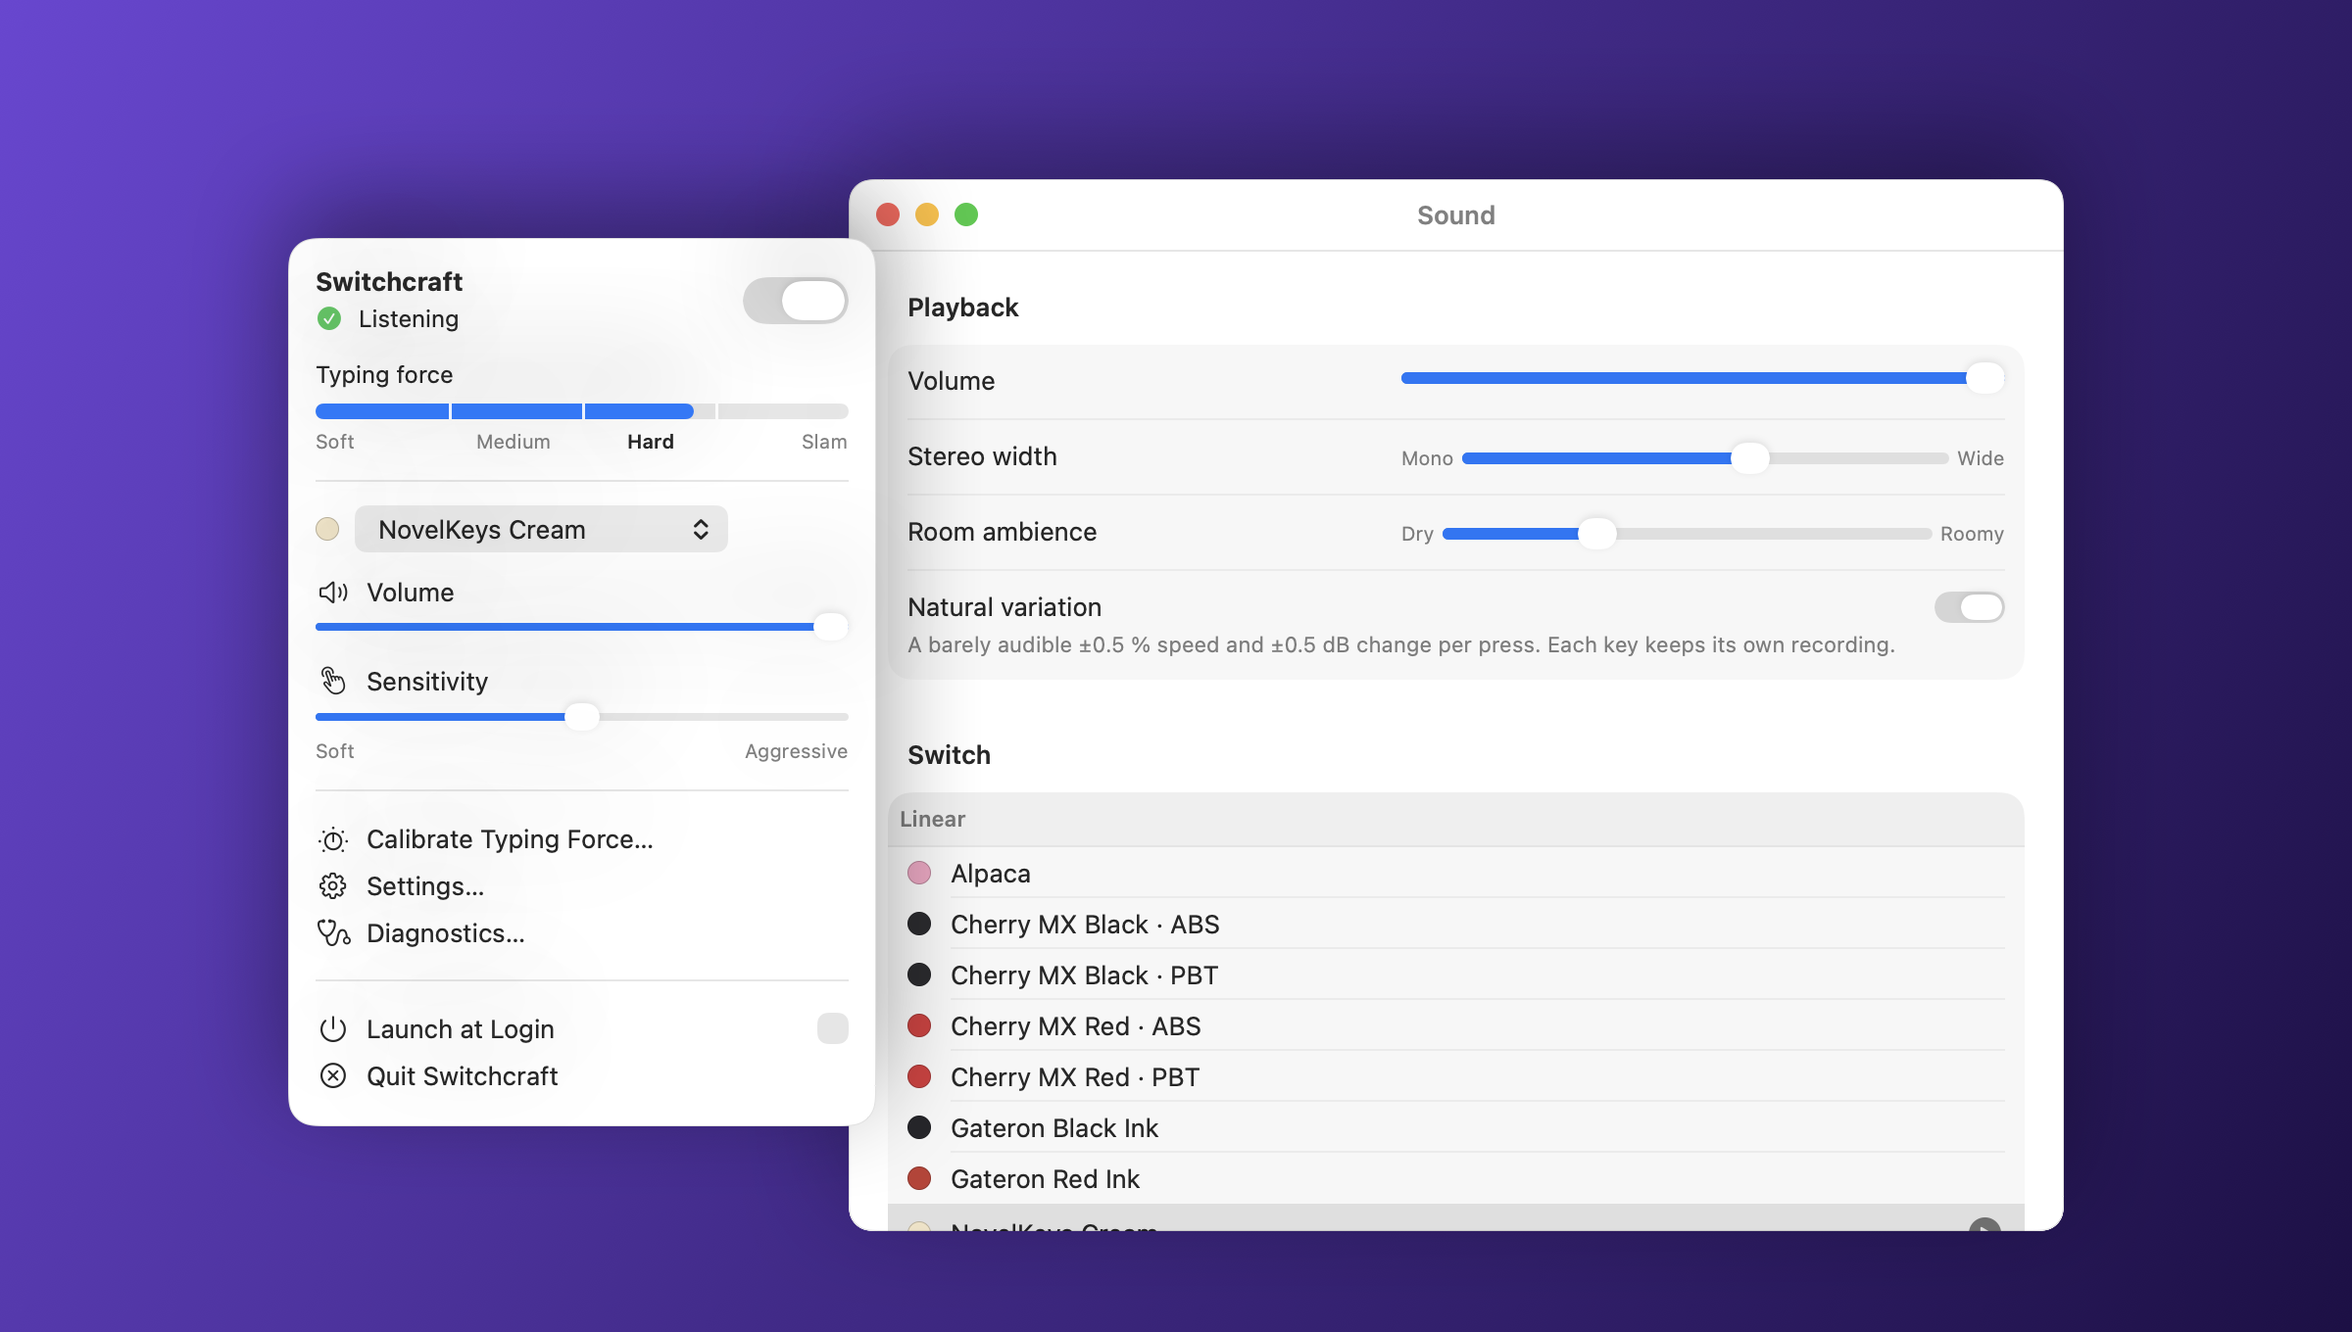
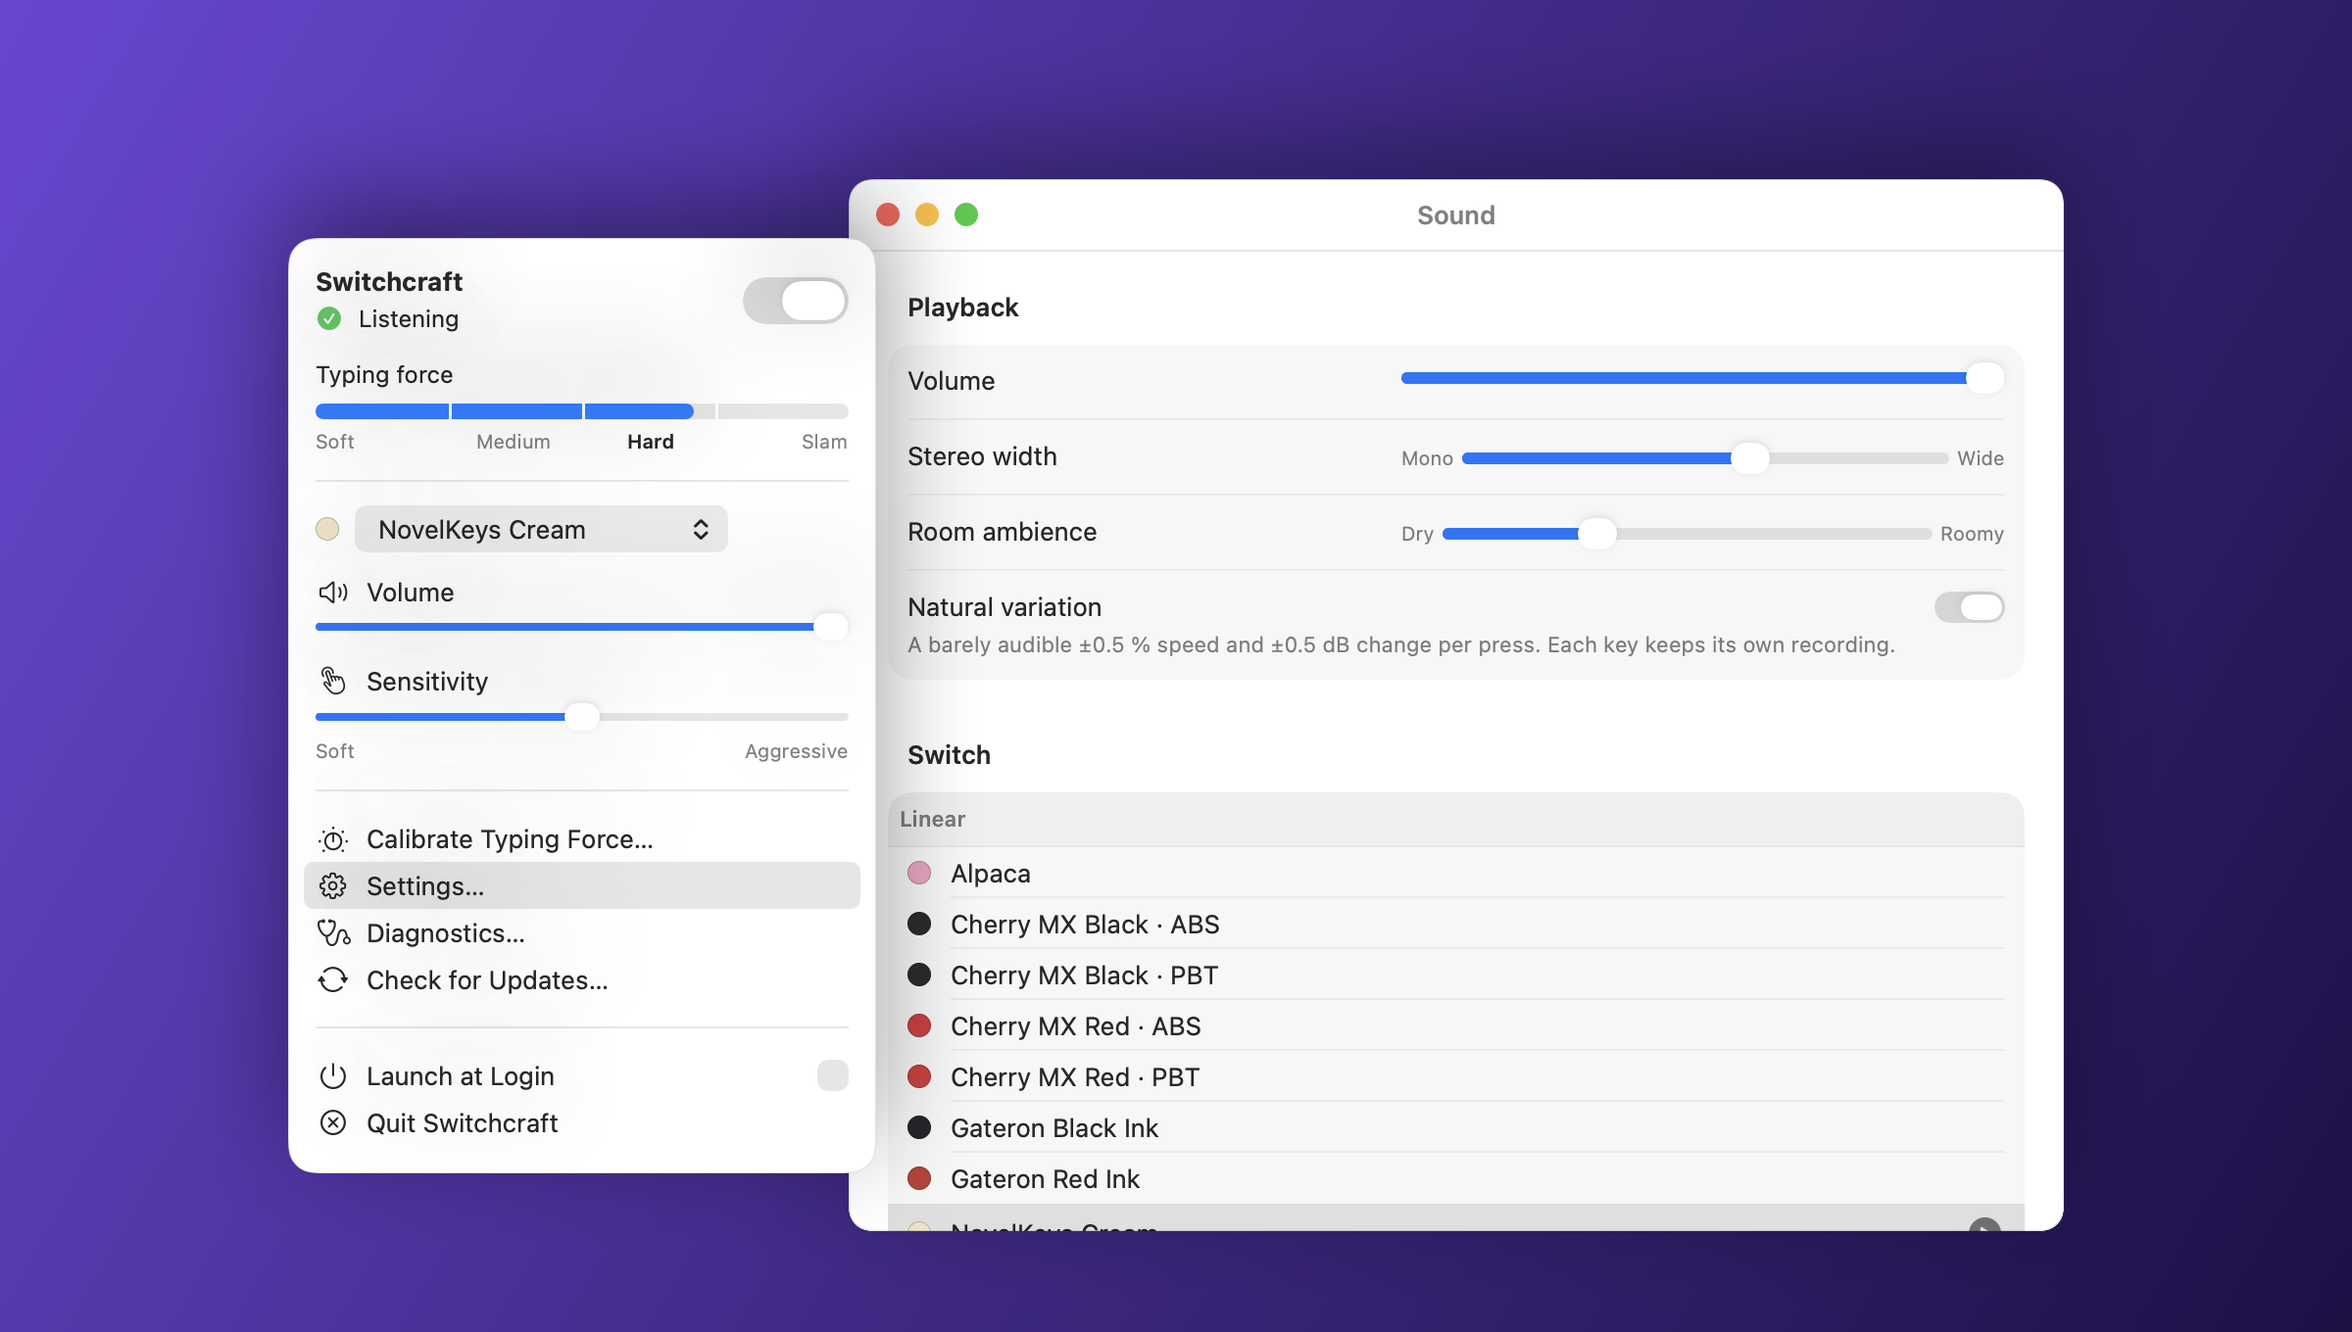
Check GitHub for a newer release at launch and daily
Switchcraft asks GitHub's releases/latest API at launch and once a day
(retrying within the hour if offline) and prompts with Download / Later
when the release is newer than the running build. The prompt waits for a
5 s pause in typing so it can't swallow keystrokes. The menu panel gets
Check for Updates… (Update to X.Y.Z… once one is known).

Version parsing and the GitHub response live in SwitchcraftCore with
tests. README, About, onboarding and Info.plist no longer claim "no
network access": the update check is the only request.

Changed region(s): [[0.125, 0.7412, 0.375, 0.8956], [0.125, 0.6485, 0.375, 0.6794], [0.1562, 0.7103, 0.25, 0.7412]]

diff --git a/Switchcraft/Application/UpdateChecker.swift b/Switchcraft/Application/UpdateChecker.swift
@@ -1,0 +1,79 @@
+import AppKit
+import Observation
+import SwitchcraftCore
+
+/// Asks GitHub for the latest release at launch and once a day, and prompts when it's newer than
+/// this build. Switchcraft's only network request: nothing about the Mac or the typing is sent.
+@MainActor @Observable
+final class UpdateChecker {
+    static let latestReleaseAPI = URL(string: "https://api.github.com/repos/mustafa4101996ahmed/switchcraft/releases/latest")!
+
+    /// A release newer than this build, once a check has found one.
+    private(set) var available: LatestRelease?
+    private let current = AppVersion(Bundle.main.infoDictionary?["CFBundleShortVersionString"] as? String ?? "") ?? AppVersion("0")!
+    @ObservationIgnored private var isChecking = false
+
+    func start() {
+        Task {
+            while !Task.isCancelled {
+                let reachedGitHub = await check(userInitiated: false)
+                // Task.sleep counts time asleep too, so a Mac that sleeps overnight still checks daily.
+                try? await Task.sleep(for: .seconds(reachedGitHub ? 24 * 3600 : 3600))
+            }
+        }
+    }
+
+    /// Returns false when GitHub couldn't be reached, so the daily schedule retries within the hour.
+    @discardableResult
+    func check(userInitiated: Bool) async -> Bool {
+        guard !isChecking else { return true }
+        isChecking = true
+        defer { isChecking = false }
+        let release: LatestRelease
+        do {
+            var request = URLRequest(url: Self.latestReleaseAPI, timeoutInterval: 30)
+            request.setValue("application/vnd.github+json", forHTTPHeaderField: "Accept")
+            let (data, response) = try await URLSession.shared.data(for: request)
+            guard (response as? HTTPURLResponse)?.statusCode == 200 else { throw URLError(.badServerResponse) }
+            release = try LatestRelease(gitHubJSON: data)
+        } catch {
+            Log.app.error("Update check failed: \(error.localizedDescription, privacy: .public)")
+            if userInitiated {
+                show("Couldn't check for updates", "GitHub didn't answer. Check your internet connection and try again.")
+            }
+            return false
+        }
+        Log.app.info("Latest release \(release.version, privacy: .public), this build \(self.current, privacy: .public)")
+        available = release.version > current ? release : nil
+        if let available {
+            await prompt(available, waitForTypingPause: !userInitiated)
+        } else if userInitiated {
+            show("Switchcraft is up to date", "Version \(current) is the latest release.")
+        }
+        return true
+    }
+
+    private func prompt(_ release: LatestRelease, waitForTypingPause: Bool) async {
+        // A dialog that takes focus mid-sentence would swallow keystrokes, so wait for a quiet moment.
+        while waitForTypingPause && CGEventSource.secondsSinceLastEventType(.combinedSessionState, eventType: .keyDown) < 5 {
+            try? await Task.sleep(for: .seconds(5))
+        }
+        let alert = NSAlert()
+        alert.messageText = "Switchcraft \(release.version) is available"
+        alert.informativeText = "You have version \(current). Download the new version, quit Switchcraft, then drag the new one into Applications. Your settings stay as they are."
+        alert.addButton(withTitle: "Download")
+        alert.addButton(withTitle: "Later")
+        NSApp.activate()
+        if alert.runModal() == .alertFirstButtonReturn {
+            NSWorkspace.shared.open(release.downloadURL)
+        }
+    }
+
+    private func show(_ title: String, _ message: String) {
+        let alert = NSAlert()
+        alert.messageText = title
+        alert.informativeText = message
+        NSApp.activate()
+        alert.runModal()
+    }
+}

diff --git a/SwitchcraftCore/Utilities/AppVersion.swift b/SwitchcraftCore/Utilities/AppVersion.swift
@@ -1,0 +1,53 @@
+import Foundation
+
+/// A release version such as "1.2.0", or a tag such as "v1.2.0". Missing trailing parts count as zero.
+public struct AppVersion: Comparable, Sendable, CustomStringConvertible {
+    public let description: String
+    private let parts: [Int]
+
+    public init?(_ text: String) {
+        let pieces = text.drop(while: { $0 == "v" }).split(separator: ".", omittingEmptySubsequences: false)
+        let parts = pieces.compactMap { Int($0) }
+        guard !parts.isEmpty, parts.count == pieces.count else { return nil }
+        self.parts = parts
+        description = parts.map(String.init).joined(separator: ".")
+    }
+
+    public static func < (a: AppVersion, b: AppVersion) -> Bool {
+        for index in 0..<max(a.parts.count, b.parts.count) where a.part(index) != b.part(index) {
+            return a.part(index) < b.part(index)
+        }
+        return false
+    }
+
+    public static func == (a: AppVersion, b: AppVersion) -> Bool { !(a < b) && !(b < a) }
+
+    private func part(_ index: Int) -> Int { index < parts.count ? parts[index] : 0 }
+}
+
+/// What Switchcraft reads from GitHub's "latest release" API response.
+public struct LatestRelease: Sendable, Equatable {
+    public let version: AppVersion
+    /// The DMG when the release has one, otherwise the release page.
+    public let downloadURL: URL
+
+    public init(gitHubJSON data: Data) throws {
+        struct Response: Decodable {
+            struct Asset: Decodable {
+                let name: String
+                let browserDownloadUrl: URL
+            }
+            let tagName: String
+            let htmlUrl: URL
+            let assets: [Asset]
+        }
+        let decoder = JSONDecoder()
+        decoder.keyDecodingStrategy = .convertFromSnakeCase
+        let response = try decoder.decode(Response.self, from: data)
+        guard let version = AppVersion(response.tagName) else {
+            throw DecodingError.dataCorrupted(.init(codingPath: [], debugDescription: "Unrecognised release tag \(response.tagName)"))
+        }
+        self.version = version
+        downloadURL = response.assets.first { $0.name.hasSuffix(".dmg") }?.browserDownloadUrl ?? response.htmlUrl
+    }
+}

diff --git a/SwitchcraftTests/UpdateTests.swift b/SwitchcraftTests/UpdateTests.swift
@@ -1,0 +1,46 @@
+import Foundation
+import Testing
+@testable import SwitchcraftCore
+
+struct UpdateTests {
+    @Test(arguments: [
+        ("1.0.1", "1.0.0"), ("1.1.0", "1.0.9"), ("2.0.0", "1.9.9"), ("1.10.0", "1.9.0"),
+        ("v1.0.1", "1.0.0"), ("1.0.0.1", "1.0"),
+    ])
+    func newerVersionsCompareGreater(newer: String, older: String) throws {
+        let a = try #require(AppVersion(newer)), b = try #require(AppVersion(older))
+        #expect(a > b)
+        #expect(!(b > a))
+    }
+
+    @Test func trailingZerosAreTheSameVersion() {
+        #expect(AppVersion("v1.0") == AppVersion("1.0.0"))
+    }
+
+    @Test(arguments: ["", "v", "1..0", "1.0-beta", "latest"])
+    func rejectsTextThatIsNotAVersion(text: String) {
+        #expect(AppVersion(text) == nil)
+    }
+
+    @Test func readsTheDMGFromGitHubsLatestRelease() throws {
+        let json = """
+        {"tag_name": "v1.2.0", "html_url": "https://github.com/o/r/releases/tag/v1.2.0", "draft": false,
+         "assets": [{"name": "notes.txt", "browser_download_url": "https://example.com/notes.txt"},
+                    {"name": "Switchcraft.dmg", "browser_download_url": "https://example.com/Switchcraft.dmg"}]}
+        """
+        let release = try LatestRelease(gitHubJSON: Data(json.utf8))
+        #expect(release.version == AppVersion("1.2.0"))
+        #expect(release.downloadURL.absoluteString == "https://example.com/Switchcraft.dmg")
+    }
+
+    @Test func fallsBackToTheReleasePageWithoutADMG() throws {
+        let json = #"{"tag_name": "v1.2.0", "html_url": "https://github.com/o/r/releases/tag/v1.2.0", "assets": []}"#
+        let release = try LatestRelease(gitHubJSON: Data(json.utf8))
+        #expect(release.downloadURL.absoluteString == "https://github.com/o/r/releases/tag/v1.2.0")
+    }
+
+    @Test func rejectsATagThatIsNotAVersion() {
+        let json = #"{"tag_name": "nightly", "html_url": "https://github.com/o/r", "assets": []}"#
+        #expect(throws: DecodingError.self) { try LatestRelease(gitHubJSON: Data(json.utf8)) }
+    }
+}

diff --git a/Switchcraft/Preferences/SettingsView.swift b/Switchcraft/Preferences/SettingsView.swift
@@ -168,7 +168,7 @@ struct AboutView: View {
                     Text("\(model.hardware.cpuBrand) · \(model.hardware.modelIdentifier)").foregroundStyle(.secondary)
                 }
             }
-            Text("Velocity-sensitive mechanical keyboard sounds, driven by your MacBook's built-in accelerometer. Everything stays on this Mac: no network access, no analytics, and the text you type is never recorded.")
+            Text("Velocity-sensitive mechanical keyboard sounds, driven by your MacBook's built-in accelerometer. Everything stays on this Mac: no analytics, and the text you type is never recorded. Switchcraft only goes online to check GitHub for a newer version, once a day.")
                 .fixedSize(horizontal: false, vertical: true)
             GroupBox {
                 VStack(alignment: .leading, spacing: 8) {

diff --git a/Switchcraft/Onboarding/OnboardingView.swift b/Switchcraft/Onboarding/OnboardingView.swift
@@ -115,7 +115,7 @@ struct OnboardingView: View {
                     .fixedSize(horizontal: false, vertical: true)
                 Text("Switchcraft feels how hard each key lands through the MacBook's built-in motion sensor, so soft presses sound soft and hard presses sound hard.")
                     .fixedSize(horizontal: false, vertical: true)
-                Label("Everything stays on this Mac. No network access, and the text you type is never recorded.", systemImage: "lock")
+                Label("Everything stays on this Mac, and the text you type is never recorded.", systemImage: "lock")
                     .foregroundStyle(.secondary)
                     .fixedSize(horizontal: false, vertical: true)
             }

diff --git a/Switchcraft/MenuBar/MenuBarView.swift b/Switchcraft/MenuBar/MenuBarView.swift
@@ -59,6 +59,11 @@ struct MenuBarView: View {
                 row("Settings…", systemImage: "gearshape") { open(.settings) }
                     .keyboardShortcut(",", modifiers: .command)
                 row("Diagnostics…", systemImage: "stethoscope") { open(.diagnostics) }
+                row(model.updates.available.map { "Update to \($0.version)…" } ?? "Check for Updates…",
+                    systemImage: model.updates.available == nil ? "arrow.triangle.2.circlepath" : "arrow.down.circle") {
+                    NSApp.keyWindow?.close()
+                    Task { await model.updates.check(userInitiated: true) }
+                }
             }
             .padding(.horizontal, -6)
 

diff --git a/Switchcraft/Application/AppModel.swift b/Switchcraft/Application/AppModel.swift
@@ -11,6 +11,7 @@ final class AppModel {
     let permissions = PermissionsService()
     let library = SoundPackLibrary()
     let hardware = HardwareInfo.detect()
+    let updates = UpdateChecker()
     @ObservationIgnored let audio = SoundEngine()
     @ObservationIgnored let sensor = HIDAccelerometer()
     @ObservationIgnored let keyboard = KeyboardMonitor()
@@ -69,6 +70,7 @@ final class AppModel {
         settingsChanged()
         startOrStopKeyboard()
         refreshLaunchAtLogin()
+        updates.start()
         if !settings.hasCompletedOnboarding { windows.show(.onboarding, model: self) }
     }
 

diff --git a/README.md b/README.md
@@ -13,7 +13,7 @@ a recording of a real switch to match. Soft presses sound soft. Hard presses sou
 [![MIT](https://img.shields.io/badge/licence-MIT-007ec6)](LICENSE)
 ![macOS 14+](https://img.shields.io/badge/macOS-14%2B-1f1f1f)
 ![Apple Silicon MacBooks](https://img.shields.io/badge/Apple%20Silicon-MacBook-0a7ea4)
-![Network access: none](https://img.shields.io/badge/network-none-6b7785)
+![Network: update check only](https://img.shields.io/badge/network-update%20check%20only-6b7785)
 
 </div>
 
@@ -100,7 +100,8 @@ is on the keyboard, so the click comes from under your finger.
 
 > [!NOTE]
 > Switchcraft isn't signed with an Apple Developer ID yet, which is why macOS asks once. It has no
-> network code at all: no analytics, no update checks, nothing leaves your Mac.
+> analytics and sends nothing from your Mac. Its only network request is a daily check of GitHub for
+> a newer release, and it asks before downloading one (menu-bar icon › Check for Updates… any time).
 > Updates keep their Input Monitoring permission, because every release is signed with the same
 > local identity.
 
@@ -132,7 +133,7 @@ Switchcraft hears the keyboard, so it is built to keep that harmless.
 |---|---|
 | Keystrokes | A listen-only tap reads the key code and timestamp. Characters are never requested, so words can't be rebuilt |
 | History | Each press is processed and discarded in milliseconds. Nothing is stored or logged |
-| Network | No network code and no third-party dependencies. Check with `lsof -i -a -p $(pgrep -x Switchcraft)` |
+| Network | One request a day to GitHub's public releases API, to see if a newer version exists. Nothing about you or your typing is sent. No third-party dependencies |
 | Microphone | Never opened. "Mute while the microphone is in use" reads CoreAudio's public *is-recording* flag |
 | Password fields | macOS hides them from every app, Switchcraft included |
 | The alert beep | Lowered only while you type and restored a second later, even after a crash |
@@ -157,7 +158,7 @@ Scripts/release.sh 1.1.0     # build/Switchcraft.dmg; add --publish to tag and u
 ## Tests
 
 ```bash
-Scripts/test.sh              # 81 tests in 11 suites, under a second
+Scripts/test.sh              # 87 tests in 12 suites, under a second
 ```
 
 The suites cover key classification, velocity mapping and calibration, sound-pack parsing and
@@ -187,7 +188,7 @@ Switchcraft/           the app: SwiftUI + AppKit
   SoundPacks/          bundled and imported pack library
   Components/          shared views: status label, force meter, stem swatches
 SwitchcraftCore/       pure logic, all unit-tested: DSP, velocity, packs, settings, pipeline
-SwitchcraftTests/      81 tests in 11 suites
+SwitchcraftTests/      87 tests in 12 suites
 SoundPacks/            the 20 switches, built by Scripts/build-sound-packs.swift
 Scripts/               build, test, install, release, signing, pack and image generators
 docs/                  architecture, sensor research, pack format, troubleshooting
